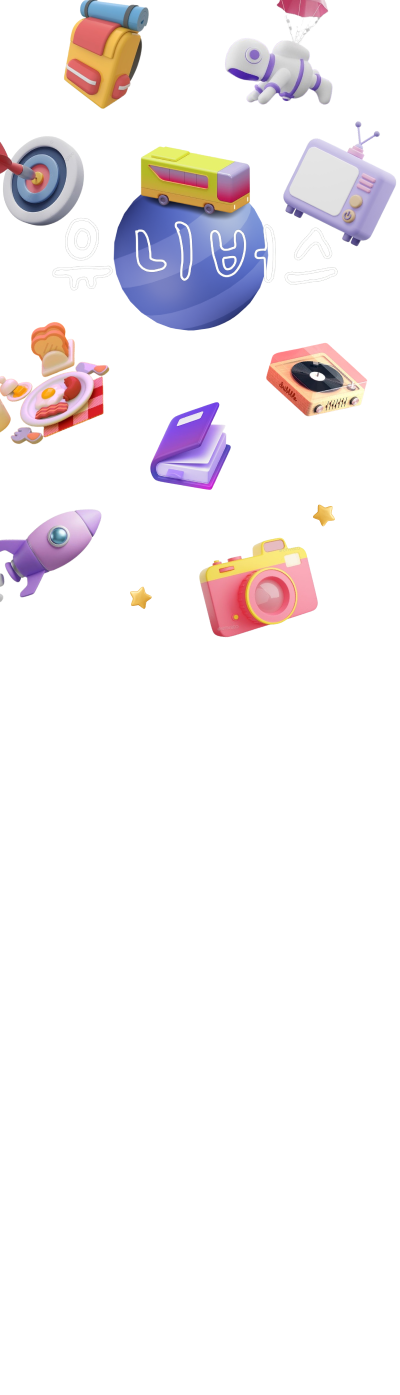
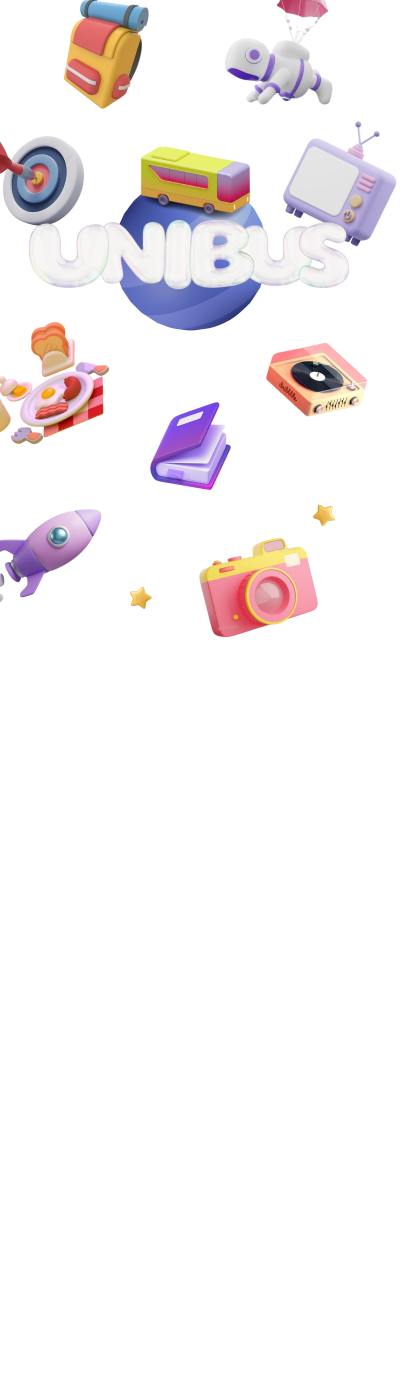
[Refactor] login 페이지

diff --git a/src/pages/users/login.tsx b/src/pages/users/login.tsx
@@ -22,7 +22,7 @@ const LoginPage = () => {
     // Render the login page only if not authenticated
     return !auth.isLoggedIn ? (
         <div className="gradation">
-            <div className="sm:bg-login bg-loginMobile h-screen center center bg-no-repeat relative">
+            <div className="sm:bg-login bg-loginMobile h-screen">
                 <div className="text-base font-bold fixed bottom-20 left-1/2 flex flex-col space-y-5 transform -translate-x-1/2">
                     <button onClick={onKakaoLogin} className="text-black font-bold w-80 flex gap-4 bg-[#fef01b] hover:bg-[#fef01b]/90 rounded-3xl px-5 py-4 text-center items-center justify-between pr-[95px]"><RiKakaoTalkFill className="w-6 h-6"/>카카오로 로그인하기</button>
                     <button onClick={()=>router.push("/main")} style={{ background: "linear-gradient(to right, #9C3FE4, #C65647)" }} className="text-white w-80 flex gap-4 bg-[#9C3FE4] font-medium rounded-3xl px-5 py-4 text-center items-center justify-between pr-[135px]">

diff --git a/tailwind.config.ts b/tailwind.config.ts
@@ -19,7 +19,7 @@ const config: Config = {
             serif: ["Merriweather", "serif"],
         },
         backgroundImage: {
-            login: "url('/images/login2.png')",
+            login: "url('/images/login.png')",
             loginMobile: "url('/images/login-Mobile.png')",
             mypageMobile: "url('/images/mypage-background-Mobile.png')",
             mypageDesktop: "url('/images/mypage-background-Desktop.png')",
